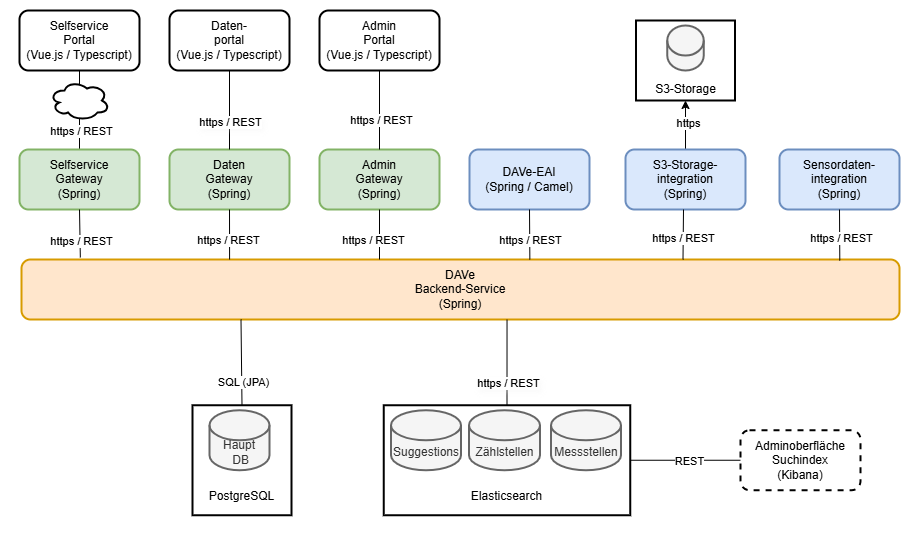
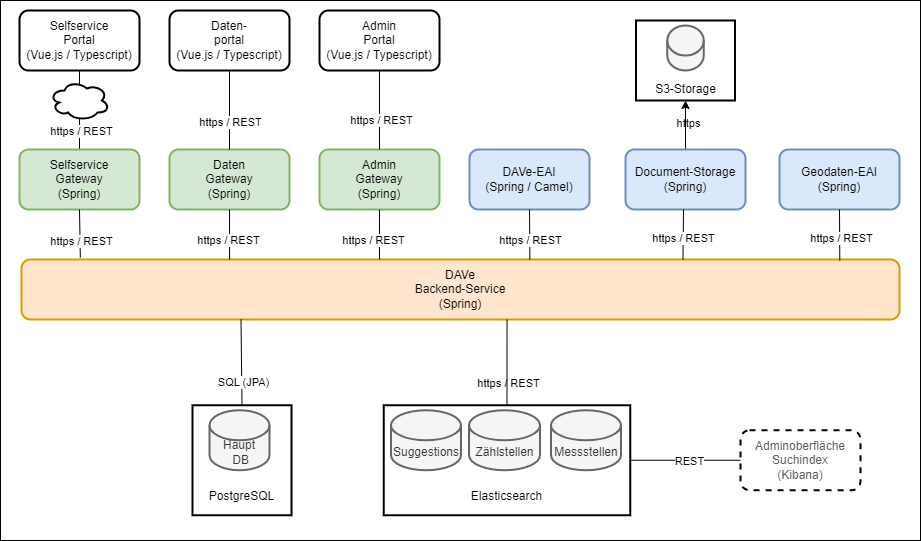
FV-110 Umzug Document-Storage-EAI

Pull request: FV-110 Umzug Document-Storage-EAI
# Description

<!-- Add a short description of what the request is all about here -->
Docu for Document-Storage added

# Issue References

<!-- Add the corresponding issues here -->
#FV110
 
# Definition of Done

<!-- Check all completed DoD requirements here -->

- [x] Acceptance criteria are met
- [ ] Testing is done (unit-tests, DEV-environment)
- [ ] Build/Test workflow has successfully finished
- [x] Release notes are complemented
- [x] Documentation is complemented (operator manual, system specification, etc.)

diff --git a/docs/src/de/SysSpec-arc42.md b/docs/src/de/SysSpec-arc42.md
@@ -19,7 +19,7 @@
          - [Ausgabe aller Zählstellen mit Koordinaten als CSV-Datei](#ausgabe-aller-zählstellen-mit-koordinaten-als-csv-datei)
          - [Ausgabe der Spitzenstunde einer bestimmten Zählung als CSV-Datei](#ausgabe-der-spitzenstunde-einer-bestimmten-zählung-als-csv-datei)
          - [Daten aller Zählstellen und Zählungen des angegebenen Monats werden im JSON-Format zurückgegeben](#daten-aller-zählstellen-und-zählungen-des-angegebenen-monats-werden-im-json-format-zurückgegeben)
-      - [S3-Storageintegration](#s3-storageintegration)
+      - [Document-Storage](#document-storage)
       - [Sensordatenintegration](#sensordatenintegration)
       - [Identity Provider](#identity-provider)
 - [Laufzeitsicht](#laufzeitsicht)
@@ -148,13 +148,14 @@ Die Anwendung ist auf Basis der LHM-Referenzarchitektur für Webanwendungen erst
 | Vue          | 3       |
 
 ### Anwendung DAVe
-| Komponente        | Repo                             | Beschreibung                                                                                                                                                                                                                                         |
-|:------------------|:---------------------------------|:-----------------------------------------------------------------------------------------------------------------------------------------------------------------------------------------------------------------------------------------------------|
-| Datenportal       | [dave-frontend](https://github.com/it-at-m/dave-frontend)             | Das Datenportal bietet einen lesenden Zugriff auf die Zählungen und ermöglicht mit Hilfe verschiedener Diagramme eine umfangreich Datenanalyse.                                                                                                      |
-| Adminportal       | [dave-adminportal](https://github.com/it-at-m/dave-admin-portal)          | Das Adminportal ist den Administratoren der Anwendung vorbehalten. Hier ist der komplette Workflow um eine Zählstelle, oder eine Zählung anzulegen abgebildet. Auch die Kommunikation mit dem Zähldienstleister wird über dieses Portal abgewickelt. |
-| Selfserviceportal | [dave-selfserviceportal](https://github.com/it-at-m/dave-selfservice-portal)    | Das Selfservice-Portal dient zur Kommunikation zwischen LHM und Zähldienstleister. Über das Portal hat der Dienstleister die Möglichkeit, seine Zählungsaufträge online aufzurufen und diesen Aufträgen Zähldaten zuzuordnen (hochzuladen).          |
-| Backend           | [dave-backend](https://github.com/it-at-m/dave-backend)              | Beinhaltet die Business Logik für Frontend, Adminportal, Selfserviceportal und EAI, sowie die Anbindung an die Datenbanken. Die Api kann über die eingebaute Swagger-UI eingesehen werden.                                                           |
-| DAVe-EAI          | [dave-eai](https://github.com/it-at-m/dave-eai)                  | Die EAI dient dazu Daten zu den Zählstellen und Zählungen als CSV oder JSON-File zu exportieren.                                                                                                                                                     |
+| Komponente        | Repo                                                                         | Beschreibung                                                                                                                                                                                                                                         |
+|:------------------|:-----------------------------------------------------------------------------|:-----------------------------------------------------------------------------------------------------------------------------------------------------------------------------------------------------------------------------------------------------|
+| Datenportal       | [dave-frontend](https://github.com/it-at-m/dave-frontend)                    | Das Datenportal bietet einen lesenden Zugriff auf die Zählungen und ermöglicht mit Hilfe verschiedener Diagramme eine umfangreich Datenanalyse.                                                                                                      |
+| Adminportal       | [dave-adminportal](https://github.com/it-at-m/dave-admin-portal)             | Das Adminportal ist den Administratoren der Anwendung vorbehalten. Hier ist der komplette Workflow um eine Zählstelle, oder eine Zählung anzulegen abgebildet. Auch die Kommunikation mit dem Zähldienstleister wird über dieses Portal abgewickelt. |
+| Selfserviceportal | [dave-selfserviceportal](https://github.com/it-at-m/dave-selfservice-portal) | Das Selfservice-Portal dient zur Kommunikation zwischen LHM und Zähldienstleister. Über das Portal hat der Dienstleister die Möglichkeit, seine Zählungsaufträge online aufzurufen und diesen Aufträgen Zähldaten zuzuordnen (hochzuladen).          |
+| Backend           | [dave-backend](https://github.com/it-at-m/dave-backend)                      | Beinhaltet die Business Logik für Frontend, Adminportal, Selfserviceportal und EAI, sowie die Anbindung an die Datenbanken. Die Api kann über die eingebaute Swagger-UI eingesehen werden.                                                           |
+| DAVe-EAI          | [dave-eai](https://github.com/it-at-m/dave-eai)                              | Die EAI dient dazu Daten zu den Zählstellen und Zählungen als CSV oder JSON-File zu exportieren.                                                                                                                                                     |
+| Document-Storage  | [dave-document-storage](https://github.com/it-at-m/dave-document-storage)    | Die Komponente dient dazu, Lagepläne von Messstellen aus einem S3-Speicher zu laden. |
 
 In jedem Frontend ist ein eigenes API Gateway enthalten, welches zur Autorisierung und Authentifizierung der
 Anwender*innen und zur Bereitstellung der grafischen Oberfläche der Anwendung benötigt wird.
@@ -206,10 +207,9 @@ Routenendpunkt: ```GET /lade-auswertung-visum```
 
 Routenziel: ```dave-backend GET /lade-auswertung-visum```
 
-### S3-Storageintegration
+### Document-Storage
 
 Die Schnittstellendefinition ist [hier](https://github.com/it-at-m/dave-backend/blob/main-ng/src/main/resources/api/document-storage.json) nachzulesen. 
-
 
 
 ### Sensordatenintegration

diff --git a/README.md b/README.md
@@ -20,7 +20,7 @@ With [DAVe](https://opensource.muenchen.de/software/dave.html), traffic counts c
 
 ### Architecture
 
-![Architecture](img/DAVe_Architektur_LS2.drawio.png)
+![Architecture](docs/src/img/DAVE_Architketur.drawio.png)
 
 
 * [Data Portal](https://github.com/it-at-m/dave-frontend)
@@ -28,7 +28,7 @@ With [DAVe](https://opensource.muenchen.de/software/dave.html), traffic counts c
 * [Selfservice Portal](https://github.com/it-at-m/dave-selfservice-portal)
 * [Backend-Service](https://github.com/it-at-m/dave-backend)
 * [EAI Reports](https://github.com/it-at-m/dave-eai)
-* _EAI S3_ Still under construction.
+* [Document-Storage](https://github.com/it-at-m/dave-document-storage)
 * _EAI GEO_ Internal component for provisioning of traffic detector counts. Not published as Opensource.
 
 

diff --git a/docs/src/de/index.md b/docs/src/de/index.md
@@ -10,6 +10,7 @@ DAVe besteht aus folgenden Diensten:
      * [Selbstbedienungsportal](https://github.com/it-at-m/dave-selfservice-portal), in dem die Betreiber der Zählstellen ihre Datensätze manuell hochladen können
   * [Frontend](https://github.com/it-at-m/dave-frontend) zur Anzeige der Zählstellen auf der Karte
   * [EAI-Berichte](https://github.com/it-at-m/dave-eai) (optional) Unternehmensanwendungsintegration für andere Spezialverfahren (z. B. Ausgabe der Koordinaten aller Zählstellen in einer CSV-Datei, Empfang der Daten aller Zählungen für einen bestimmten Monat im JSON-Format).
+  * [Document-Storage](https://github.com/it-at-m/dave-document-storage) Integration für einen S3-Storage für Lagepläne von Messstellen
 
 Weitere Details in der [Systemspezifikation](SysSpec-arc42.md).
 